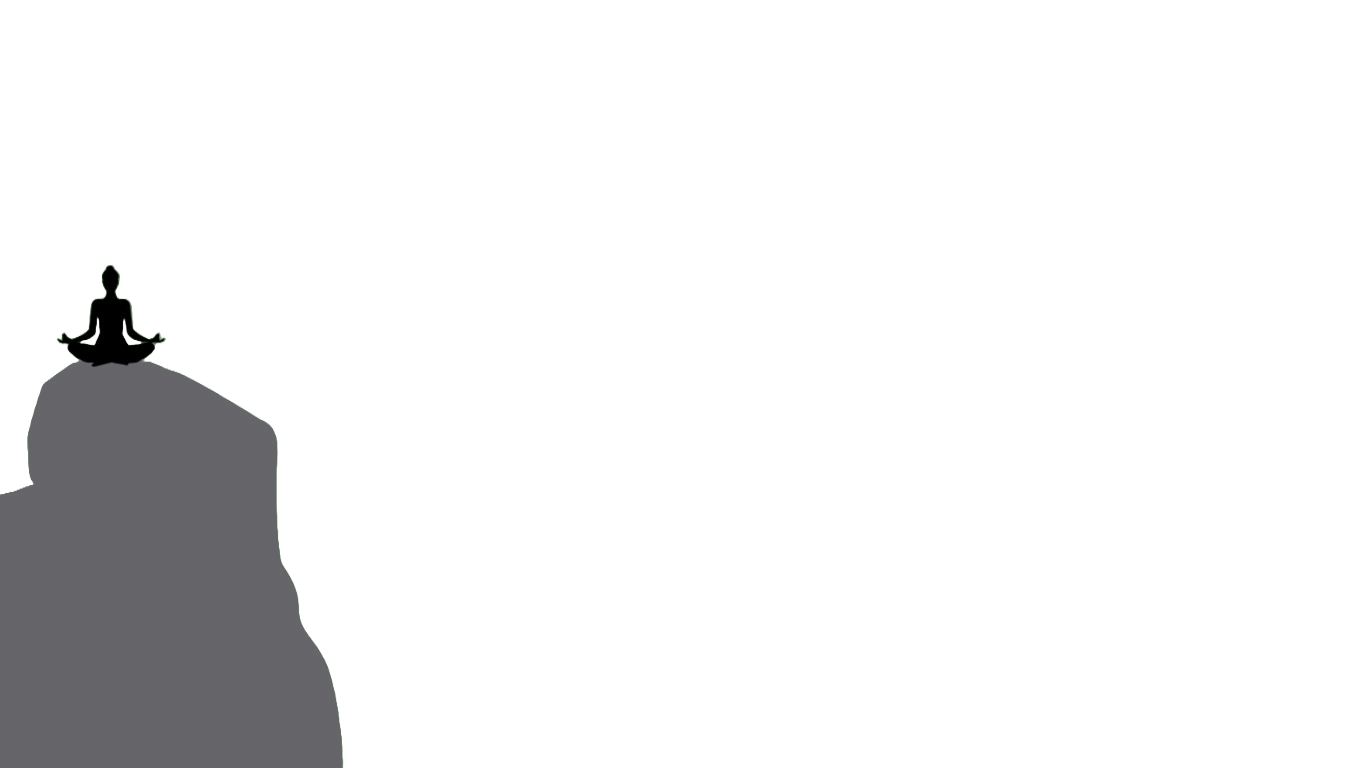
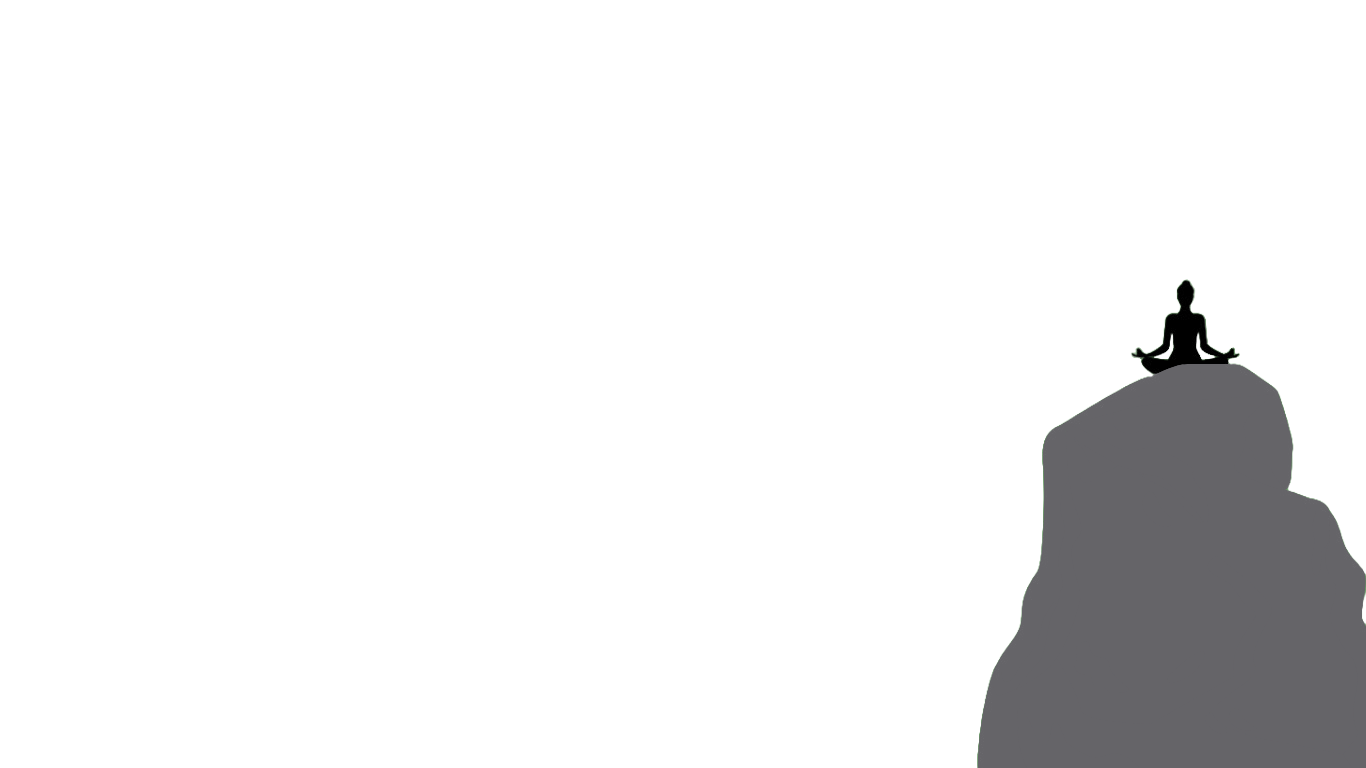
Version 2

Changed region(s): [[0.7072, 0.375, 1.0, 1.0], [0.0, 0.3438, 0.2767, 1.0]]

diff --git a/mainpage/main.html b/mainpage/main.html
@@ -31,12 +31,20 @@
             </ul>
         </header>
         <section class="sec1">
+            <img src="bird.png" id="bird">
+            <img id="sun" src="sun.png">
             <img id="backhill" src="backhill.png">
+            <h2 id="text">SOLIFY</h1>
+            <img src="water.png" id="water">
             <img id="fronthill" src="fronthill.png">
             <img id="rock" src="rock.png">
             <img id="trees" src="trees.png">
-            <img id="sun" src="sun.png">
         </section>
+        <section class="sec2">
+            <h1>hello world</h1>
+            <p> Lorem ipsum dolor sit, amet consectetur adipisicing elit. Molestiae impedit quas corrupti? Quas esse, earum voluptatem aperiam beatae ullam enim nesciunt doloribus dolorum harum, mollitia quo nihil aliquid sint non nemo eaque. Perferendis incidunt quibusdam et deserunt soluta obcaecati labore officiis fugit, officia quae nihil esse itaque explicabo, vero, inventore odit nemo voluptate ad nostrum natus veniam. Ullam quibusdam expedita aspernatur, voluptate ipsa laudantium nostrum ea ex nemo deserunt quidem harum accusantium necessitatibus illum autem provident! At quibusdam voluptates saepe officiis accusamus omnis deleniti, nostrum suscipit placeat veniam expedita recusandae tenetur eligendi? Quos vero eveniet, iusto temporibus magnam veniam soluta ipsum consequuntur enim inventore quam aliquam, distinctio nihil cum quae numquam! Repudiandae quasi, blanditiis quidem porro voluptatem deleniti beatae velit suscipit veniam sequi! Saepe necessitatibus soluta alias aliquid velit, vitae dolorum ratione libero voluptas voluptatem ipsa esse rem et, repellat ut. Similique dicta illo a quidem mollitia odio, officiis recusandae id sequi voluptates corrupti eveniet at ut hic quis eligendi expedita laboriosam? Assumenda nemo recusandae quae officia! Voluptatem culpa ut similique consectetur. Ullam aspernatur vel commodi quisquam maiores. Perspiciatis provident nemo natus sunt cupiditate consectetur unde magni modi dolore mollitia at sed facere voluptatibus, laboriosam aliquid totam, ex veritatis! Id modi ratione inventore tenetur minus, esse facilis optio est voluptatum beatae quaerat dolorem quos deserunt iure nostrum, in alias consequatur mollitia illo facere quod asperiores? Corporis exercitationem explicabo quibusdam labore, asperiores consequatur, deleniti nobis amet officia quia magnam, est cumque eaque dignissimos perspiciatis in voluptates dolorum possimus sed illo fugit? Vitae reiciendis impedit perferendis, beatae a optio et, facilis incidunt deserunt accusantium sequi fugit delectus voluptatibus iste, porro alias quidem quia ullam hic ipsum neque unde ad nostrum quos! Praesentium aspernatur placeat aliquam exercitationem et, atque doloremque repellat a sunt commodi alias ipsam omnis, expedita cupiditate non. Laudantium odio quidem ratione possimus ut, rem veniam? Consequuntur doloremque dolor numquam repudiandae quisquam porro distinctio reiciendis tempore blanditiis quae aut eligendi delectus ad natus corporis quos quia doloribus aspernatur error animi veniam, iure, ipsam alias? Dolore impedit praesentium, laborum optio doloribus repudiandae error obcaecati cupiditate culpa voluptatibus laboriosam, enim nisi quos labore inventore voluptatum laudantium, ut quisquam! Quam enim in, harum sunt mollitia deleniti nulla, at ratione consectetur obcaecati explicabo cum earum! Commodi porro voluptas, veniam praesentium quo aliquid, dolores aperiam nisi, repudiandae placeat hic perferendis. Tenetur quas omnis adipisci sit! Laborum vero molestiae sapiente atque doloribus cumque voluptate corrupti maiores eveniet voluptatum ab neque sint, architecto iusto excepturi laudantium. Eos dolor voluptatibus tempora nobis deleniti. Recusandae perferendis iure cumque iste deserunt distinctio magni beatae libero eos laboriosam, natus tempore eius earum praesentium aliquam et. Itaque ab esse dicta voluptas dolores quae, quidem libero ex, dolore quam aliquam ea facilis similique sed! Autem nulla, non dicta in a eveniet quia veniam nemo, hic vero itaque at similique perferendis maxime asperiores, dolore odio. Odit autem tempora quos laboriosam eos mollitia voluptas! Quos quibusdam culpa minima architecto sint vel sed quasi exercitationem odio odit laborum accusantium, in mollitia facere. Hic nobis voluptatibus rerum corporis officiis omnis? Suscipit exercitationem quidem tempora pariatur consequatur mollitia laborum perspiciatis itaque odio tempore voluptas nemo nesciunt dignissimos, porro quae delectus facilis corrupti autem libero, vel assumenda fugit sed enim? Laborum, velit. Quia, dicta quos dolores temporibus, voluptas optio voluptatum nemo ut officiis quasi earum cum magnam perferendis asperiores dolorem amet praesentium recusandae. Quibusdam, tenetur ipsa eum quod, doloribus quia accusantium quae temporibus doloremque suscipit fugiat adipisci ipsam iusto. Voluptates, inventore obcaecati ullam similique, quidem voluptate reprehenderit dolore doloremque est fugit, delectus cumque culpa magni asperiores distinctio sunt quod sint! Animi similique reprehenderit dicta eos repudiandae aspernatur voluptatum incidunt doloremque necessitatibus quas maxime magni sapiente quibusdam vero officiis consequatur laudantium veniam voluptatibus molestiae deleniti, ea provident exercitationem. Totam molestiae ab facere officia atque debitis corporis vel nemo deserunt veniam qui, dolor corrupti doloribus hic incidunt, officiis quibusdam nihil repellat! Quam reiciendis sapiente vel voluptas in molestiae doloremque nisi, asperiores sequi, explicabo dolore quisquam unde tenetur consequatur incidunt eius vero. Animi accusantium repellendus sapiente. Soluta voluptatum illo odio quae, omnis libero voluptas accusantium vitae iste autem facere inventore repudiandae repellat ipsum assumenda optio aut fuga quidem adipisci placeat saepe sapiente perspiciatis officia eius! Ipsum quis necessitatibus veritatis iure, enim voluptatem eaque, maiores, odio similique officia veniam tempore blanditiis inventore sed amet labore ullam impedit totam cumque. Quos eum non quia error officia possimus quo deserunt eius sequi. Minima dignissimos labore laboriosam quas tempore saepe officiis porro, ipsam doloribus adipisci! Nihil et reprehenderit vero ullam similique id quod obcaecati ipsum perferendis possimus, nemo sed molestiae asperiores, officia recusandae commodi magni ab quo sint harum? Et suscipit ea, vel est sed saepe. Accusamus quo quod dolorem aliquid omnis sunt id tenetur sapiente, laborum, nobis repellat a minima praesentium asperiores optio incidunt quisquam consequatur exercitationem corrupti? Ullam aperiam culpa quae, facilis, possimus quam, nemo minima doloremque exercitationem nulla ipsum veniam dicta eius unde aspernatur ratione laudantium iusto nobis? Fugiat quaerat, dicta alias vero aliquid cumque provident perspiciatis dolores corrupti laboriosam omnis, ab iure? Vitae, consectetur iste fuga error praesentium quae numquam. Ex repellat molestiae veritatis soluta voluptatem, corporis architecto facere incidunt vel ad debitis dicta, ipsum labore id ullam autem libero ipsam quidem alias. Rem ex sunt labore sit, voluptates pariatur quae, voluptatum laboriosam ipsam necessitatibus quos reprehenderit delectus incidunt ducimus eveniet quidem fuga minus. Quo accusantium non veritatis delectus laborum molestiae officiis, neque sint veniam eos facilis vitae, provident minus quam! Atque exercitationem, saepe animi fuga aliquid consectetur voluptatem sapiente, laborum pariatur asperiores a, dolorem ullam. Repellendus blanditiis minima tenetur aliquam. Quo libero ea eius qui reiciendis sint consequatur. Tempore, in enim nisi, et commodi, consequatur repudiandae aperiam facilis voluptas fugiat inventore laudantium vel? Optio eum odit ex doloremque. Incidunt expedita distinctio id, deserunt et facere porro sint est eaque provident nemo, labore delectus praesentium, accusamus iste reiciendis! Magnam earum deserunt, reprehenderit, obcaecati dolor facere maxime tempore delectus aliquid recusandae sit quaerat necessitatibus consequatur quidem deleniti a quo illo sint omnis doloremque. Hic minima autem sint quo nostrum error praesentium eligendi. Quaerat, veritatis.</p>
+        </section>
+        <script src="parallax.js"></script>
     </div>
     <script src="https://ajax.googleapis.com/ajax/libs/jquery/3.6.0/jquery.min.js"></script>
     <script>

diff --git a/mainpage/style2.css b/mainpage/style2.css
@@ -3,11 +3,17 @@
     margin:0;
     padding: 0;
     box-sizing: 'Poppins',sans-serif;
+    scroll-behavior: smooth;
 }
 body{
     background-color:#dbffdb;
     min-height: 100vh;
     overflow-x: hidden;
+}
+#text{
+    position: absolute;
+    font-size: 7em;
+    top: 280px;
 }
 header{
     position: absolute;
@@ -18,6 +24,7 @@ header{
     display: flex;
     justify-content: center;
     align-items: center;
+    z-index: 100;
 }
 header ul{
 display: flex;
@@ -44,10 +51,42 @@ header ul li a:hover,.active{
     background: #689965;
     color: white;
 }
+.sec1{
+    position: relative;
+    display: flex;
+    justify-content: center;
+    height: 110vh;
+    pointer-events: none;
+    overflow: hidden;
+}
 .sec1 img{
     position: absolute;
     top: 0;
     left:0;
     width:100%;
     pointer-events: none;
+}
+.sec2{
+    position: relative;
+    padding: 100px;
+        background-color:#233906;
+}
+.sec2 h1{
+    font-size: 3em;
+    color: white;
+    margin-bottom: 10px;
+}
+.sec2 p{
+    font-size: 1em;
+    color: white;
+    font-weight: 300;
+}
+.sec1::before{
+    content: '';
+    position: absolute;
+    bottom: 0;
+    width: 100%;
+    height: 5%;
+    background:linear-gradient(to top,#233906,transparent);
+    z-index: 1000;
 }

diff --git a/mainpage/parallax.js b/mainpage/parallax.js
@@ -1,0 +1,19 @@
+let text=document.getElementById('text');
+let backhill=document.getElementById('backhill');
+let fronthill=document.getElementById('fronthill');
+let rock=document.getElementById('rock');
+let trees=document.getElementById('trees');
+let sun=document.getElementById('sun');
+let bird=document.getElementById('bird');
+let water=document.getElementById('water');
+window.addEventListener('scroll',function(){
+    let value=window.scrollY;
+    sun.style.marginTop = value * 1 +'px';
+    water.style.marginTop = value * 0.25 +'px';
+    text.style.marginTop = value * 0.5 +'px';
+    rock.style.left = value * 0.5 +'px';
+    backhill.style.top = value * 0.5 +'px';
+    fronthill.style.top = value * 0.25 +'px';
+    trees.style.marginBottom= value * 0.25 +'px';
+    bird.style.left= value * 5 +'px';
+});
